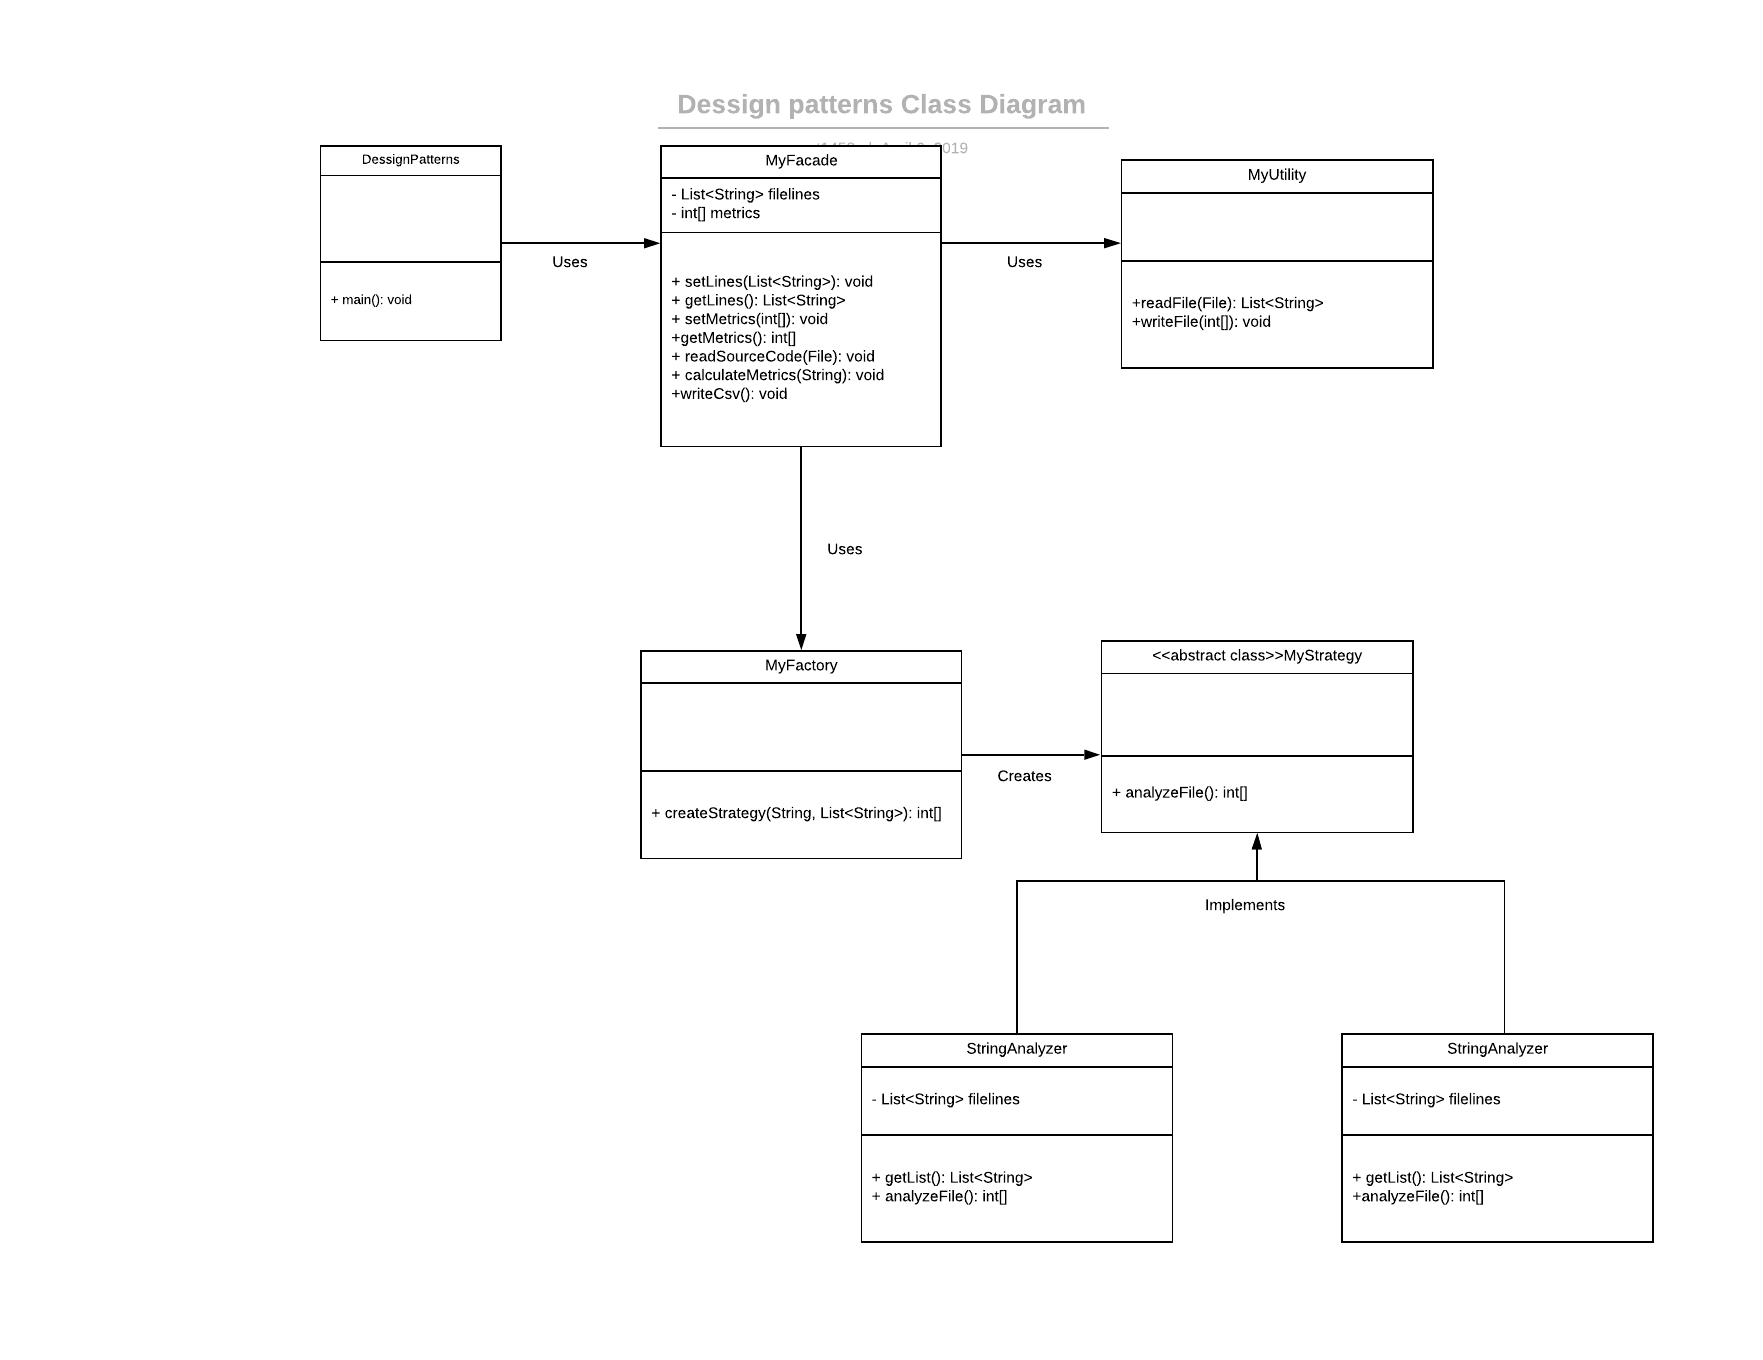
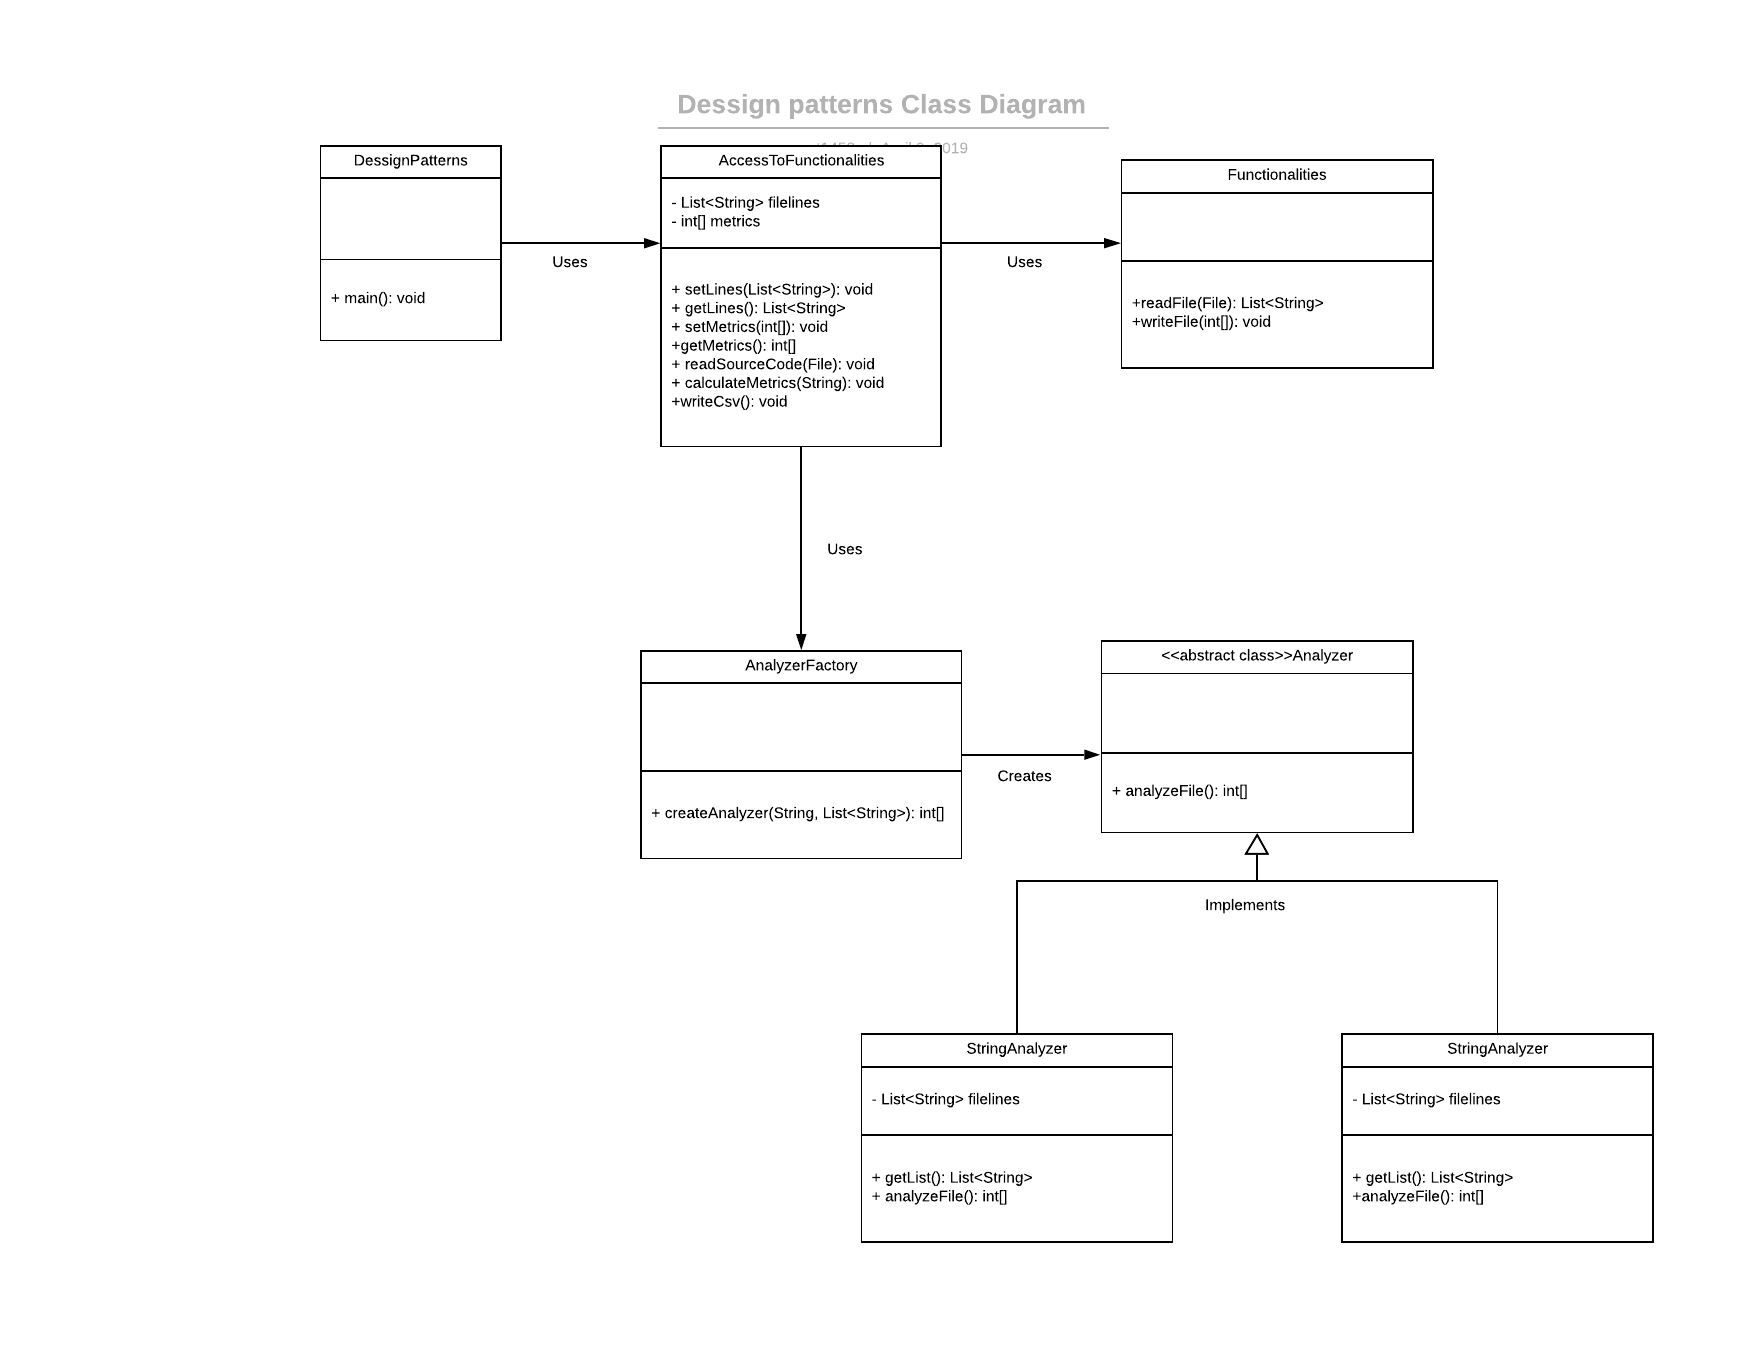
Fix class diagram/pom xml/names of classes and packaging

diff --git a/seip2019/designpatterns/src/main/java/patterns/AccessToFunctionalities.java b/seip2019/designpatterns/src/main/java/patterns/AccessToFunctionalities.java
@@ -1,16 +1,16 @@
-package Facade;
+package patterns;
 
 import java.io.File;
 import java.util.List;  
 /**
- * The class MyFacade participates in the facade pattern.
+ * The class AccessToFunctionalities participates in the facade pattern.
  * it declares three methods (readSourceCode, calculateMetrics and write CSV) 
  * that can be accessed by the main class DesignPatterns
  * @author natalia
  *
  */
 
-public  class MyFacade {
+public  class AccessToFunctionalities {
 	private List<String> fileLines = null;
 	private int[] metrics = null;
 	
@@ -32,24 +32,24 @@ public  class MyFacade {
 	
 	/*
 	 * the readSourceCode method takes an argument of type File
-	 * and calls the readFile method of the MyUtility class,
+	 * and calls the readFile method of the Functionalities class,
 	 * and then saves the result of the readFile method
 	 * in the private parameter fileLines
 	 */
 	public void readSourceCode(File file) {
-		List <String> temp = utility.MyUtility.readFile(file);
+		List <String> temp = Functionalities.readFile(file);
 		this.setLines(temp);
 	}
 
 	/*
 	 * the calculateMetrics method takes an argument of type String
 	 * that declares the analyzing method and then
-	 * calls the method createStrategy of the class MyFactory
+	 * calls the method createAnalyzer of the class AnalyzerFactory
 	 * and saves the result of this method in the private parameter metrics
 	 */
 	public void calculateMetrics(String method) {
-		Factory.MyFactory obj = new Factory.MyFactory();
-		int[] metrics = obj.createStrategy(method, this.getLines());
+		analyzer.AnalyzerFactory obj = new analyzer.AnalyzerFactory();
+		int[] metrics = obj.createAnalyzer(method, this.getLines());
 		this.setMetrics(metrics);
 	}
 	
@@ -59,7 +59,7 @@ public  class MyFacade {
 	 * of the java file that has been analyzed
 	 */
 	public void writeCSV () {
-		utility.MyUtility.writeFile(this.getMetrics());
+		Functionalities.writeFile(this.getMetrics());
 	}
 	
 

diff --git a/seip2019/designpatterns/src/main/java/analyzer/RegexAnalyzer.java b/seip2019/designpatterns/src/main/java/analyzer/RegexAnalyzer.java
@@ -1,4 +1,4 @@
-package strategy;
+package analyzer;
 
 import java.util.List;
 import java.util.regex.Matcher;
@@ -6,7 +6,7 @@ import java.util.regex.Pattern;
 
 /**
  * Class RegexAnalyzer participates in the strategy pattern.
- * it extends abstract class MyStrategy.
+ * it extends abstract class Analyzer.
  * it analyzes a java file by using regular expressions
  * to find out the number of lines of code (comments excluded),
  * the number of classes and the number of methods
@@ -15,7 +15,7 @@ import java.util.regex.Pattern;
  * 
  */
 
-public class RegexAnalyzer extends MyStrategy {
+public class RegexAnalyzer extends Analyzer {
 	private List<String> list;
 	
 	public RegexAnalyzer (List<String> list) {
@@ -40,7 +40,7 @@ public class RegexAnalyzer extends MyStrategy {
 		
 		String pattern_comment = "^\\s\\*|^/|^\t\\s\\*(.*)|^\\s/(.*)|^$|^\\s*$";
 		String pattern_class = "(.*). class .(.*)";
-		String pattern_method = "(.*)(public|private)\\s(void|String|int|void|float|double|List|long)(.*)\\((.*)\\)\\s\\{";
+		String pattern_method = "(.*)(public|private)(.*)(void|String|int|void|float|double|List|long)(.*)\\((.*)\\)\\s\\{";
 		
 		Pattern comment = Pattern.compile(pattern_comment);
 		Pattern classes = Pattern.compile(pattern_class);

diff --git a/seip2019/designpatterns/src/main/java/analyzer/AnalyzerFactory.java b/seip2019/designpatterns/src/main/java/analyzer/AnalyzerFactory.java
@@ -1,0 +1,36 @@
+package analyzer;
+
+import java.util.List;
+
+/**
+ * The class AnalyzerFactory participates in the factory pattern
+ * It creates an Analyzer object to call the right implementation of 
+ * the analyzeFile method (string or regex)
+ * @author natalia
+ *
+ */
+
+public class AnalyzerFactory {
+	
+	/*
+	 * the method createAnalyzer takes as an argument a string that specifies the analyzing method
+	 * and a list of Strings. it calls the right implementation of the method analyzeFile
+	 * and creates an array with the metrics
+	 */
+	public int[] createAnalyzer(String method, List<String> list) {
+		Analyzer str; 
+		int[] metrics = null;
+		
+		if (method.equals("string")) {
+			str = new StringAnalyzer(list);
+			metrics = str.analyzeFile();
+			
+		} else if (method.equals("regex")) {
+			str = new RegexAnalyzer(list);
+			metrics = str.analyzeFile();
+			
+		}
+		
+		return metrics;
+	}
+}

diff --git a/seip2019/designpatterns/src/main/java/analyzer/StringAnalyzer.java b/seip2019/designpatterns/src/main/java/analyzer/StringAnalyzer.java
@@ -1,12 +1,10 @@
-package strategy;
+package analyzer;
 
-import java.util.ArrayList;
-import java.util.Arrays;
 import java.util.List;
 
 /**
  * Class StringAnalyzer participates in the strategy pattern.
- * it extends abstract class MyStrategy.
+ * it extends abstract class Analyzer.
  * it analyzes a java file using the method of string comparison
  * to find out the number of lines of code (comments excluded),
  * the number of classes and the number of methods
@@ -14,7 +12,7 @@ import java.util.List;
  * @author natalia
  * 
  */
-public class StringAnalyzer extends MyStrategy {
+public class StringAnalyzer extends Analyzer {
 	private List<String> fileLines;
 	
 	public StringAnalyzer (List<String> list) {

diff --git a/seip2019/designpatterns/src/main/java/patterns/Functionalities.java b/seip2019/designpatterns/src/main/java/patterns/Functionalities.java
@@ -1,4 +1,4 @@
-package utility;
+package patterns;
 
 import java.util.ArrayList;
 import java.util.List;  
@@ -12,14 +12,14 @@ import java.io.PrintWriter;
 
 
 /**
- * Class MyUtility participates in the utility pattern
+ * Class Functionalities participates in the utility pattern
  * It includes the static method readFile for reading a file line by line and
  * the static method writeFile for creating a csv file with some metrics.
  * @author natalia
  * 
  */
 
-public final class MyUtility {
+public final class Functionalities {
 	
 	/*
 	 *  the readfile method takes an argument of type File

diff --git a/seip2019/designpatterns/src/main/java/patterns/DesignPatterns.java b/seip2019/designpatterns/src/main/java/patterns/DesignPatterns.java
@@ -23,7 +23,7 @@ public class DesignPatterns {
 			 System.err.println("Invalid arguments count:" + args.length);
 	    }
 		
-		Facade.MyFacade obj = new Facade.MyFacade();
+		AccessToFunctionalities obj = new AccessToFunctionalities();
 		obj.readSourceCode(file);
 		obj.calculateMetrics(method);
 		obj.writeCSV();

diff --git a/seip2019/designpatterns/src/main/java/analyzer/Analyzer.java b/seip2019/designpatterns/src/main/java/analyzer/Analyzer.java
@@ -1,0 +1,12 @@
+package analyzer;
+
+/**
+ * The abstract class Analyzer participates in the strategy pattern
+ * it includes the abstract method analyzeFile.
+ * @author natalia
+ *
+ */
+
+public abstract class Analyzer {
+	public abstract int[] analyzeFile();
+}

diff --git a/seip2019/designpatterns/README.md b/seip2019/designpatterns/README.md
@@ -9,8 +9,8 @@ To run the application:
 3. Install maven and add the bin directory to the PATH environmental variable
 4. Download eclipse workspace
 5. Open the project in the eclipse workspace and run maven install
-6. The maven install order creates two executable jars in the target folder of the designpatterns module. Bring git bash in the target folder and execute the command
-"java -jar <jar-with-depedencies> <path-of-the-java-file> <string or regex>"
+6. The maven install order creates an executable jar in the target folder of the designpatterns module. Bring git bash in the target folder and execute the command
+"java -jar <jar> <path-of-the-java-file> <string or regex>".
 
 After these steps a csv file with the metrics of the java file will be generated in the target folder of the module.
 
